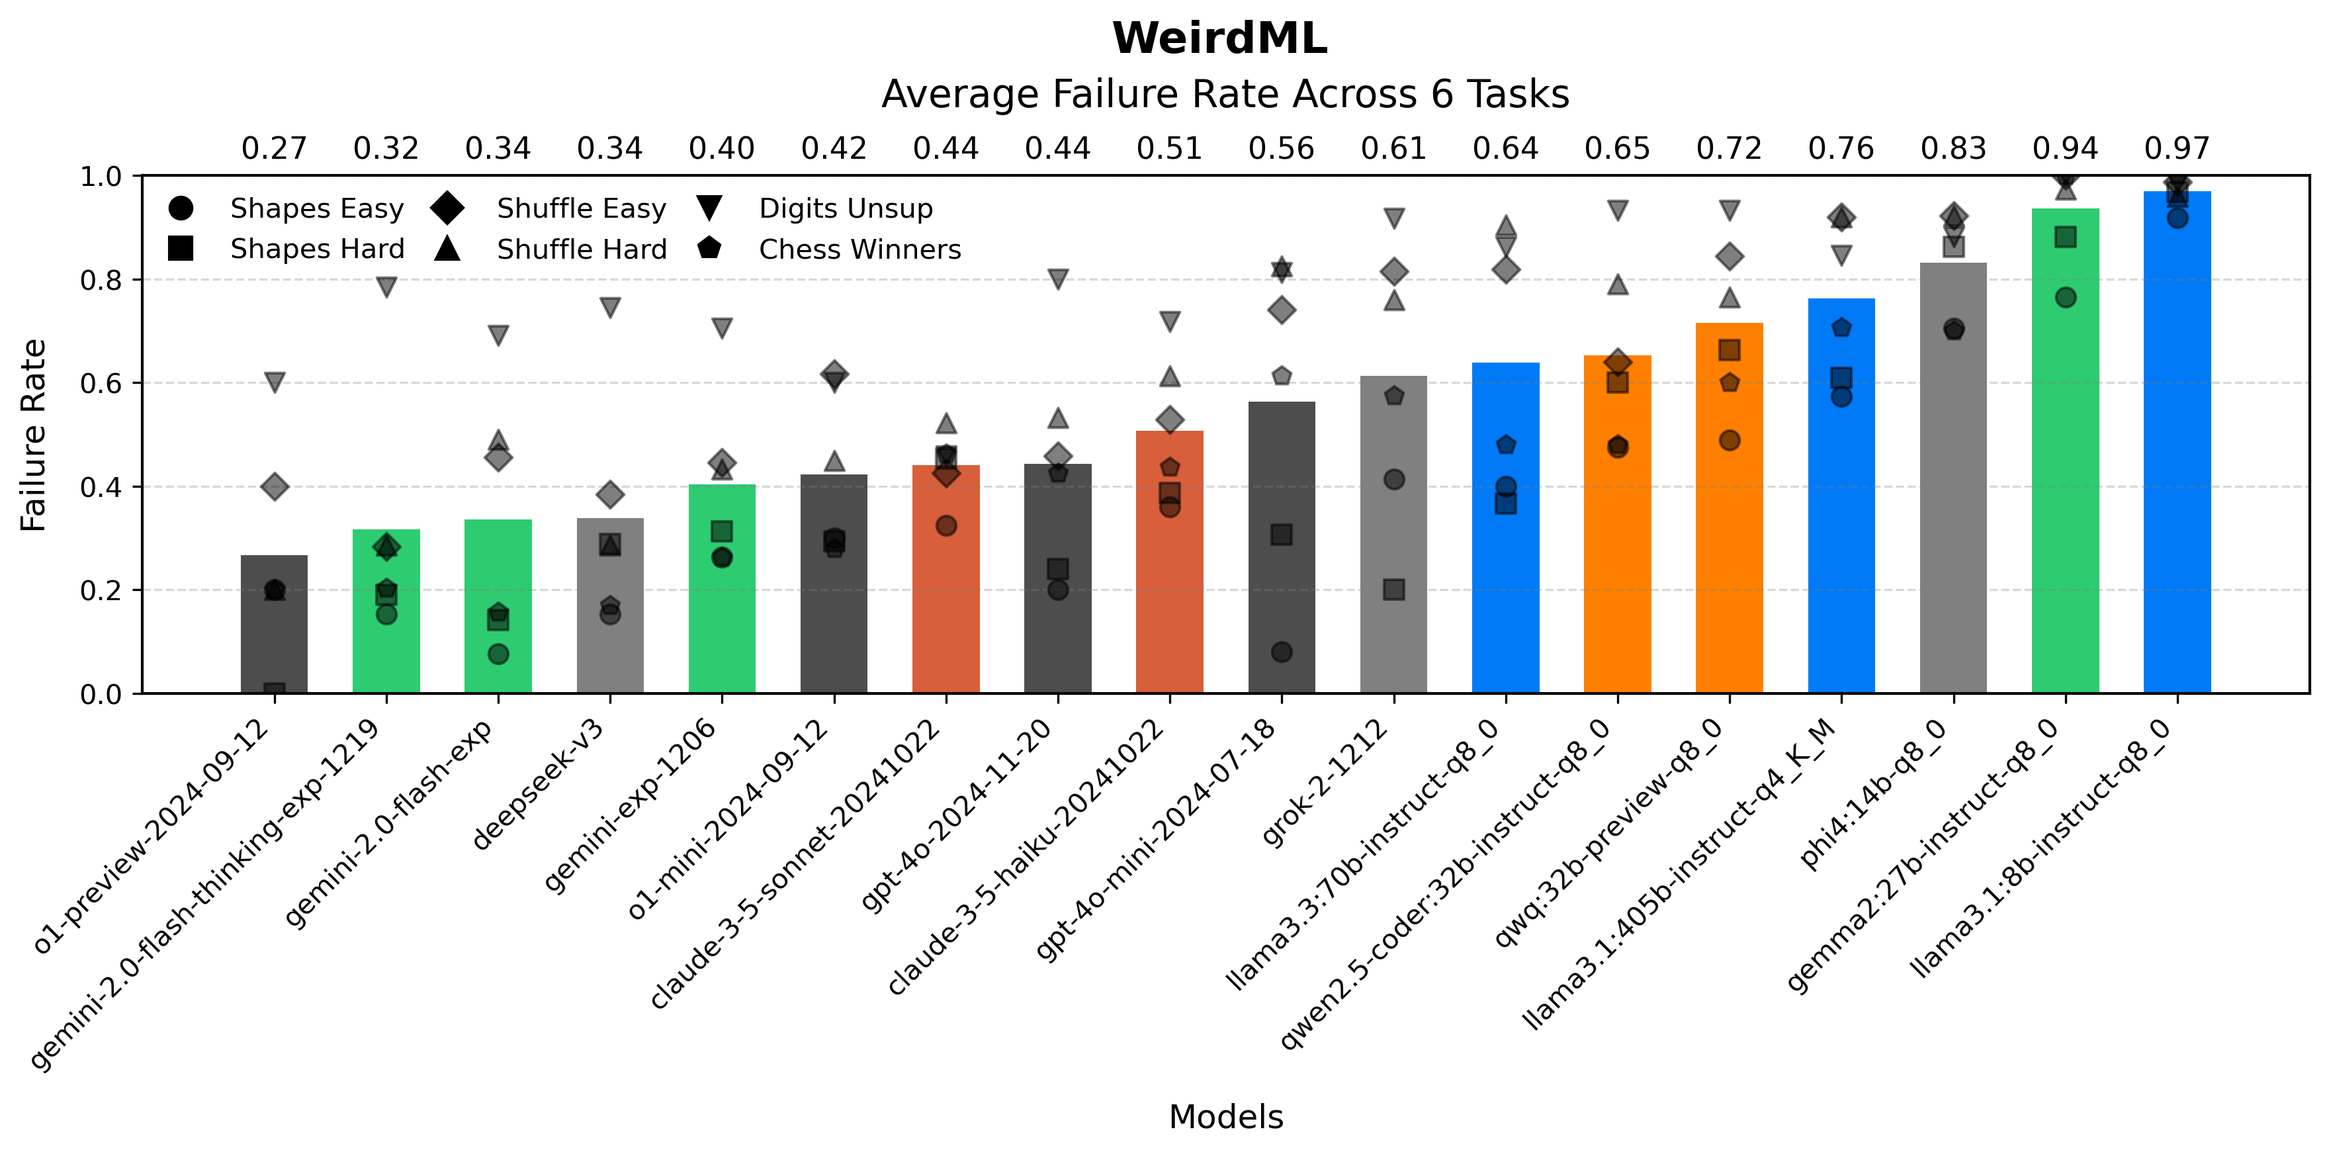
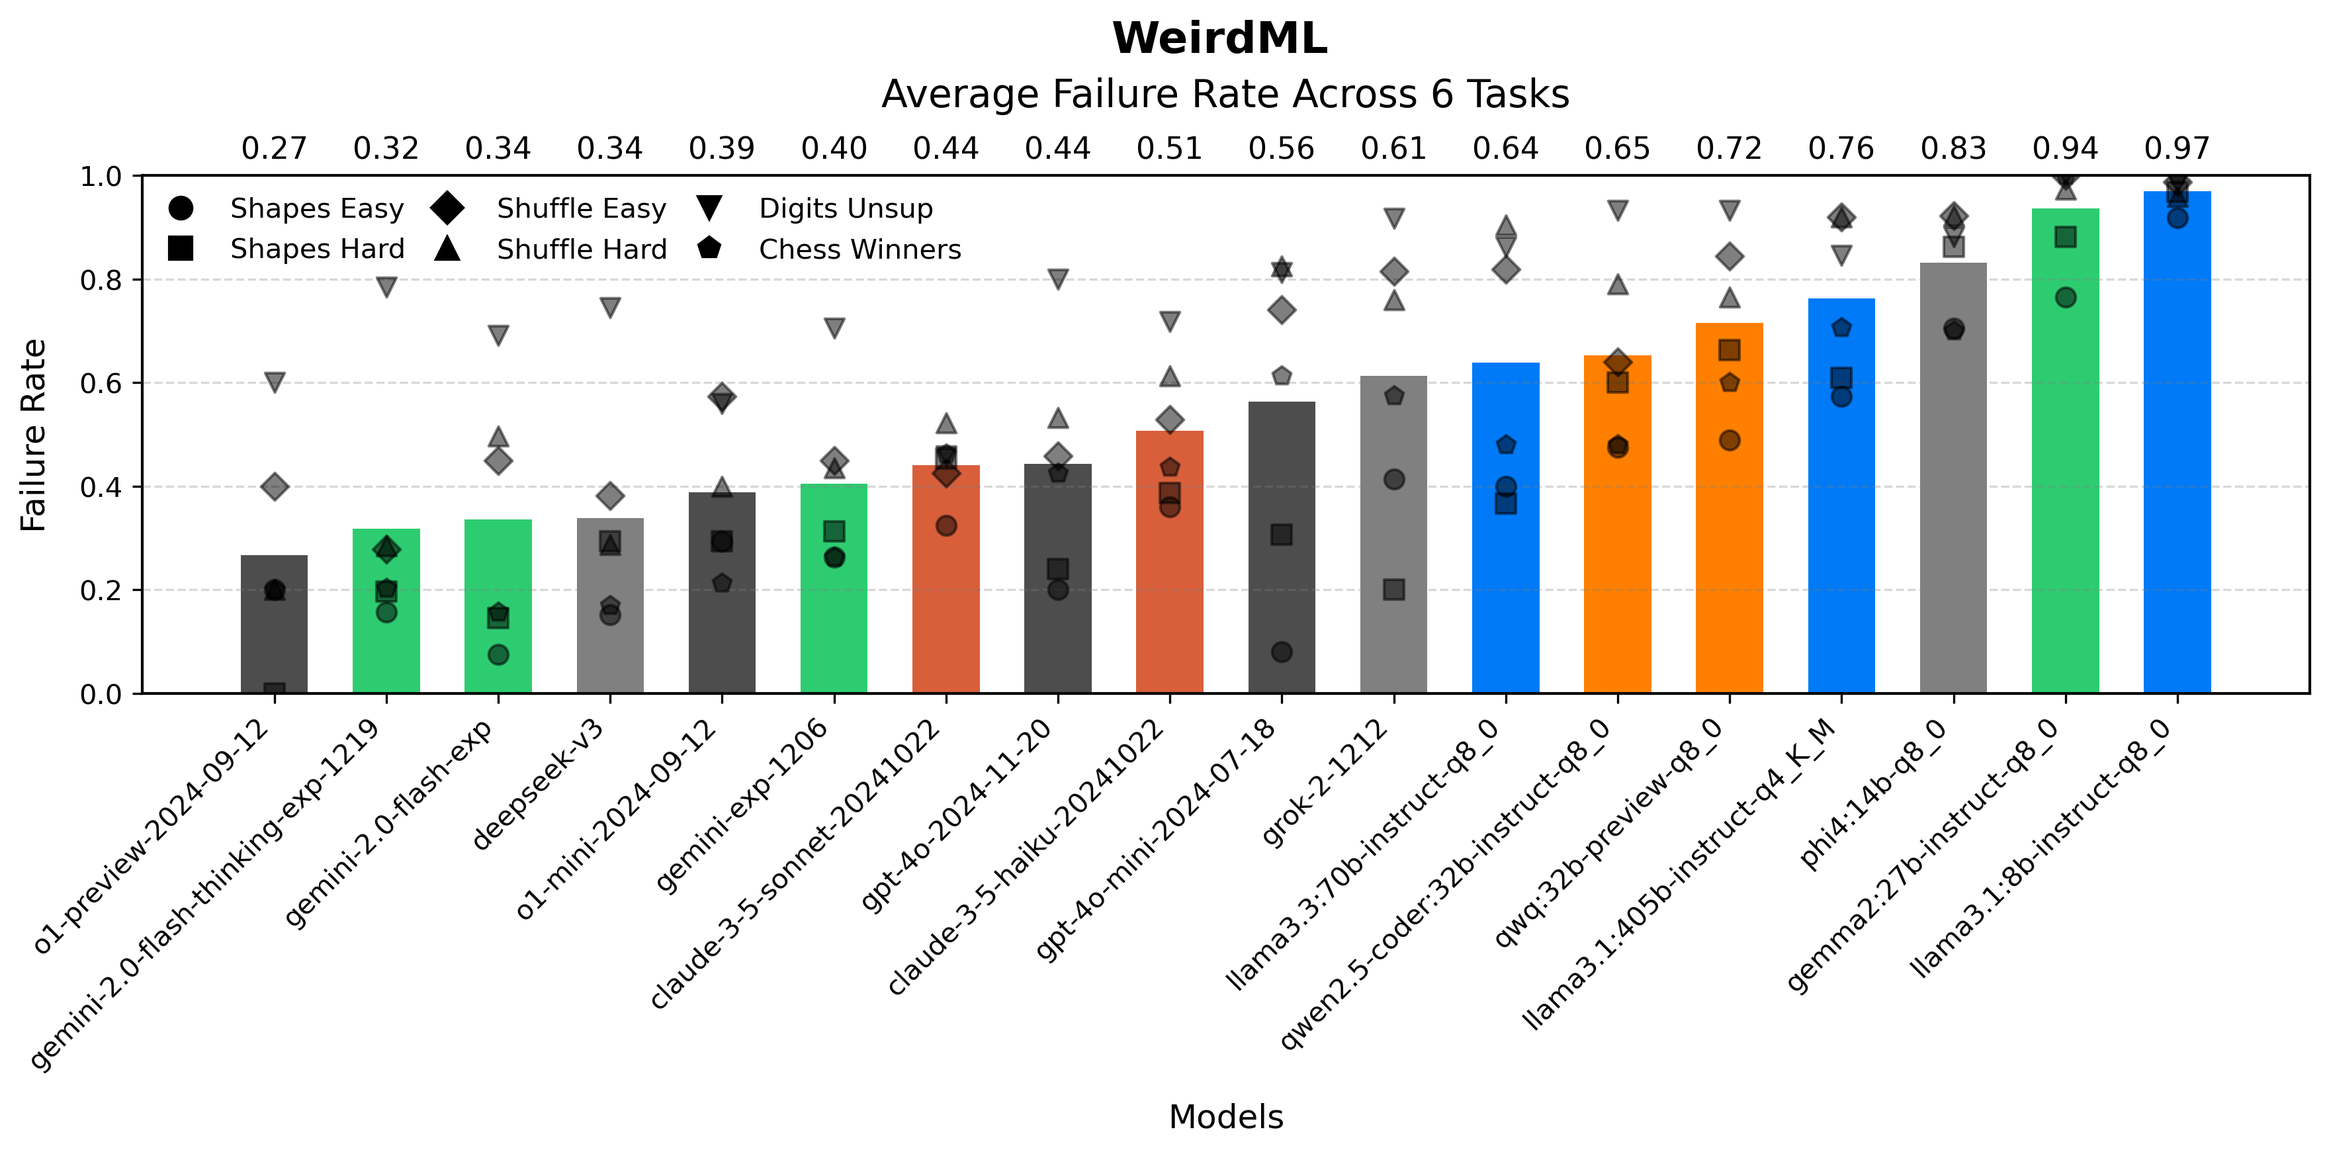
new versions of figures, and updated text

diff --git a/weirdml.md b/weirdml.md
@@ -8,14 +8,13 @@ title: WeirdML
 
 ## Introduction
 
-This benchmark evaluates Large Language Models (LLMs) on their ability to solve novel machine learning tasks, specifically it tests an LLM's capability to:
-1. Understand machine learning problem descriptions
-2. Generate working PyTorch code
-3. Debug and improve solutions based on feedback
-4. Handle resource constraints effectively
+How good are Large Language Models (LLMs) at doing machine learning on a novel datasets? The WeirdML benchmark presents the LLMs with weird and unusual machine learning tasks, designed to require careful thinking and actual understanding to solve, and tests an LLM's ability to:
+1. Actually understand the properties of the data and the problem
+2. Come up with a good architecture and training setup for the promblem and generate working PyTorch code that implements the solution
+3. Debug and improve the solution in 5 iterations based on terminal output and the accuracy on the test set
+4. Making good use of limited computational resources and time
 
-Each task is presented with a clear problem description and example code for loading data and saving predictions. The LLMs must then generate complete, working solutions that run within specified computational constraints.
-
+Each task comes with a task prompt describing the problem precisely and some example code for loading data and saving predictions. The different tasks pose different challenges: some require heavy data augmentation, others need careful feature engineering, or combining information from many different parts of the input.
 
 ## Results
 
@@ -74,7 +73,7 @@ Each task is presented with a clear problem description and example code for loa
         <table>
             <tr>
                 <th class="header-cell">Model</th>
-    <th class="header-cell">Shapes Easy</th><th class="header-cell">Shapes Hard</th><th class="header-cell">Shuffle Easy</th><th class="header-cell">Shuffle Hard</th><th class="header-cell">Digits Unsup</th><th class="header-cell">Chess Winners</th><th class="header-cell">Average</th></tr><tr style="background-color: #d75f3a25"><td class="model-cell">claude-3-5-sonnet-20241022</td><td>84.79%</td><td>29.12%</td><td>47.39%</td><td>11.46%</td><td>80.27%</td><td>52.62%</td><td><strong>50.94%</strong></td></tr><tr style="background-color: #4c4c4c25"><td class="model-cell">o1-preview-2024-09-12</td><td>98.70%</td><td>24.70%</td><td>50.02%</td><td>12.07%</td><td>34.40%</td><td>53.50%</td><td><strong>45.56%</strong></td></tr><tr style="background-color: #4c4c4c25"><td class="model-cell">o1-mini-2024-09-12</td><td>86.92%</td><td>23.80%</td><td>44.57%</td><td>11.42%</td><td>43.20%</td><td>57.14%</td><td><strong>44.51%</strong></td></tr><tr style="background-color: #d75f3a25"><td class="model-cell">claude-3-5-haiku-20241022</td><td>84.39%</td><td>23.85%</td><td>52.23%</td><td>10.07%</td><td>43.33%</td><td>48.66%</td><td><strong>43.75%</strong></td></tr><tr style="background-color: #2dcc7025"><td class="model-cell">gemini-2.0-flash-thinking-exp-1219</td><td>68.48%</td><td>21.63%</td><td>45.84%</td><td>11.20%</td><td>55.54%</td><td>53.37%</td><td><strong>42.68%</strong></td></tr><tr style="background-color: #2dcc7025"><td class="model-cell">gemini-2.0-flash-exp</td><td>49.46%</td><td>21.76%</td><td>38.65%</td><td>9.97%</td><td>60.78%</td><td>54.02%</td><td><strong>39.11%</strong></td></tr><tr style="background-color: #7f7f7f25"><td class="model-cell">deepseek-v3</td><td>72.74%</td><td>21.71%</td><td>32.78%</td><td>10.77%</td><td>33.40%</td><td>52.31%</td><td><strong>37.29%</strong></td></tr><tr style="background-color: #4c4c4c25"><td class="model-cell">gpt-4o-2024-11-20</td><td>68.95%</td><td>23.28%</td><td>36.75%</td><td>10.90%</td><td>29.77%</td><td>47.22%</td><td><strong>36.15%</strong></td></tr><tr style="background-color: #2dcc7025"><td class="model-cell">gemini-exp-1206</td><td>43.25%</td><td>21.82%</td><td>38.65%</td><td>11.86%</td><td>37.55%</td><td>49.95%</td><td><strong>33.85%</strong></td></tr><tr style="background-color: #7f7f7f25"><td class="model-cell">grok-2-1212</td><td>70.59%</td><td>21.40%</td><td>14.53%</td><td>5.40%</td><td>14.36%</td><td>39.45%</td><td><strong>27.62%</strong></td></tr><tr style="background-color: #ff7e0025"><td class="model-cell">qwq:32b-preview-q8_0</td><td>57.06%</td><td>18.44%</td><td>16.56%</td><td>6.46%</td><td>10.94%</td><td>45.32%</td><td><strong>25.80%</strong></td></tr><tr style="background-color: #ff7e0025"><td class="model-cell">qwen2.5-coder:32b-instruct-q8_0</td><td>55.75%</td><td>18.67%</td><td>16.16%</td><td>6.52%</td><td>10.53%</td><td>44.89%</td><td><strong>25.42%</strong></td></tr><tr style="background-color: #4c4c4c25"><td class="model-cell">gpt-4o-mini-2024-07-18</td><td>32.93%</td><td>19.95%</td><td>18.83%</td><td>4.87%</td><td>27.00%</td><td>38.28%</td><td><strong>23.64%</strong></td></tr><tr style="background-color: #0079f725"><td class="model-cell">llama3.3:70b-instruct-q8_0</td><td>40.86%</td><td>20.85%</td><td>9.86%</td><td>2.52%</td><td>22.35%</td><td>44.44%</td><td><strong>23.48%</strong></td></tr><tr style="background-color: #0079f725"><td class="model-cell">llama3.1:405b-instruct-q4_K_M</td><td>41.91%</td><td>19.41%</td><td>5.19%</td><td>2.27%</td><td>31.85%</td><td>37.40%</td><td><strong>23.00%</strong></td></tr><tr style="background-color: #2dcc7025"><td class="model-cell">gemini-1.5-flash-002</td><td>42.03%</td><td>21.31%</td><td>3.56%</td><td>11.27%</td><td>-</td><td>-</td><td><strong>19.54%</strong></td></tr><tr style="background-color: #7f7f7f25"><td class="model-cell">phi4:14b-q8_0</td><td>26.48%</td><td>5.73%</td><td>3.30%</td><td>2.44%</td><td>12.92%</td><td>28.08%</td><td><strong>13.16%</strong></td></tr><tr style="background-color: #0079f725"><td class="model-cell">llama3.1:70b-instruct-q8_0</td><td>25.61%</td><td>9.61%</td><td>0.69%</td><td>-</td><td>-</td><td>-</td><td><strong>11.97%</strong></td></tr><tr style="background-color: #2dcc7025"><td class="model-cell">gemma2:27b-instruct-q8_0</td><td>21.51%</td><td>8.76%</td><td>0.00%</td><td>1.49%</td><td>0.00%</td><td>0.00%</td><td><strong>5.30%</strong></td></tr><tr style="background-color: #0079f725"><td class="model-cell">llama3.1:8b-instruct-q8_0</td><td>6.77%</td><td>2.22%</td><td>0.66%</td><td>0.76%</td><td>1.35%</td><td>0.00%</td><td><strong>1.96%</strong></td></tr>
+    <th class="header-cell">Shapes Easy</th><th class="header-cell">Shapes Hard</th><th class="header-cell">Shuffle Easy</th><th class="header-cell">Shuffle Hard</th><th class="header-cell">Digits Unsup</th><th class="header-cell">Chess Winners</th><th class="header-cell">Average</th></tr><tr style="background-color: #d75f3a25"><td class="model-cell">claude-3-5-sonnet-20241022</td><td>84.79%</td><td>29.12%</td><td>47.39%</td><td>11.46%</td><td>80.27%</td><td>52.62%</td><td><strong>50.94%</strong></td></tr><tr style="background-color: #4c4c4c25"><td class="model-cell">o1-mini-2024-09-12</td><td>87.73%</td><td>26.49%</td><td>44.51%</td><td>11.44%</td><td>47.41%</td><td>55.89%</td><td><strong>45.58%</strong></td></tr><tr style="background-color: #4c4c4c25"><td class="model-cell">o1-preview-2024-09-12</td><td>98.70%</td><td>24.70%</td><td>50.02%</td><td>12.07%</td><td>34.40%</td><td>53.50%</td><td><strong>45.56%</strong></td></tr><tr style="background-color: #d75f3a25"><td class="model-cell">claude-3-5-haiku-20241022</td><td>84.39%</td><td>23.85%</td><td>52.23%</td><td>10.07%</td><td>43.33%</td><td>48.66%</td><td><strong>43.75%</strong></td></tr><tr style="background-color: #2dcc7025"><td class="model-cell">gemini-2.0-flash-thinking-exp-1219</td><td>68.65%</td><td>21.62%</td><td>46.05%</td><td>11.20%</td><td>55.54%</td><td>53.37%</td><td><strong>42.74%</strong></td></tr><tr style="background-color: #2dcc7025"><td class="model-cell">gemini-2.0-flash-exp</td><td>49.25%</td><td>21.76%</td><td>38.74%</td><td>9.83%</td><td>60.78%</td><td>54.02%</td><td><strong>39.06%</strong></td></tr><tr style="background-color: #7f7f7f25"><td class="model-cell">deepseek-v3</td><td>72.65%</td><td>21.70%</td><td>32.99%</td><td>10.78%</td><td>33.40%</td><td>52.31%</td><td><strong>37.31%</strong></td></tr><tr style="background-color: #4c4c4c25"><td class="model-cell">gpt-4o-2024-11-20</td><td>68.95%</td><td>23.28%</td><td>36.75%</td><td>10.90%</td><td>29.77%</td><td>47.22%</td><td><strong>36.15%</strong></td></tr><tr style="background-color: #2dcc7025"><td class="model-cell">gemini-exp-1206</td><td>43.25%</td><td>21.89%</td><td>40.62%</td><td>11.14%</td><td>37.55%</td><td>49.95%</td><td><strong>34.07%</strong></td></tr><tr style="background-color: #7f7f7f25"><td class="model-cell">grok-2-1212</td><td>70.59%</td><td>21.40%</td><td>14.53%</td><td>5.40%</td><td>14.36%</td><td>39.45%</td><td><strong>27.62%</strong></td></tr><tr style="background-color: #ff7e0025"><td class="model-cell">qwq:32b-preview-q8_0</td><td>57.06%</td><td>18.44%</td><td>16.56%</td><td>6.46%</td><td>10.94%</td><td>45.32%</td><td><strong>25.80%</strong></td></tr><tr style="background-color: #ff7e0025"><td class="model-cell">qwen2.5-coder:32b-instruct-q8_0</td><td>55.75%</td><td>18.67%</td><td>16.16%</td><td>6.52%</td><td>10.53%</td><td>44.89%</td><td><strong>25.42%</strong></td></tr><tr style="background-color: #4c4c4c25"><td class="model-cell">gpt-4o-mini-2024-07-18</td><td>32.93%</td><td>19.95%</td><td>18.83%</td><td>4.87%</td><td>27.00%</td><td>38.28%</td><td><strong>23.64%</strong></td></tr><tr style="background-color: #0079f725"><td class="model-cell">llama3.3:70b-instruct-q8_0</td><td>40.86%</td><td>20.85%</td><td>9.86%</td><td>2.52%</td><td>22.35%</td><td>44.44%</td><td><strong>23.48%</strong></td></tr><tr style="background-color: #0079f725"><td class="model-cell">llama3.1:405b-instruct-q4_K_M</td><td>41.91%</td><td>19.41%</td><td>5.19%</td><td>2.27%</td><td>31.85%</td><td>37.40%</td><td><strong>23.00%</strong></td></tr><tr style="background-color: #2dcc7025"><td class="model-cell">gemini-1.5-flash-002</td><td>42.03%</td><td>21.31%</td><td>3.56%</td><td>11.27%</td><td>-</td><td>-</td><td><strong>19.54%</strong></td></tr><tr style="background-color: #7f7f7f25"><td class="model-cell">phi4:14b-q8_0</td><td>26.48%</td><td>5.73%</td><td>3.30%</td><td>2.44%</td><td>12.92%</td><td>28.08%</td><td><strong>13.16%</strong></td></tr><tr style="background-color: #0079f725"><td class="model-cell">llama3.1:70b-instruct-q8_0</td><td>25.61%</td><td>9.61%</td><td>0.69%</td><td>-</td><td>-</td><td>-</td><td><strong>11.97%</strong></td></tr><tr style="background-color: #2dcc7025"><td class="model-cell">gemma2:27b-instruct-q8_0</td><td>21.51%</td><td>8.76%</td><td>0.00%</td><td>1.49%</td><td>0.00%</td><td>0.00%</td><td><strong>5.30%</strong></td></tr><tr style="background-color: #0079f725"><td class="model-cell">llama3.1:8b-instruct-q8_0</td><td>6.77%</td><td>2.22%</td><td>0.66%</td><td>0.76%</td><td>1.35%</td><td>0.00%</td><td><strong>1.96%</strong></td></tr>
         </table>
     </div>
     <p><em>Table caption.</em></p>
@@ -85,8 +84,8 @@ Each task is presented with a clear problem description and example code for loa
 The evaluation uses an automated pipeline that:
 1. Presents the task to the LLM
 2. Executes the generated code in an isolated environment
-3. Evaluates the results against ground truth
-4. Provides feedback to the LLM for improvement
+3. Evaluates the results against the test set
+4. Provides feedback (terminal output from the code execution and test accuracy) to the LLM for improvement
 
 ### System Architecture
 <div style="text-align: center">
@@ -95,7 +94,7 @@ The evaluation uses an automated pipeline that:
 </div>
 The system executes code in a Docker container with strict resource limits (TITAN V GPU with 12GB memory, 600-second timeout). This ensures fair comparison between models and tests their ability to work within realistic constraints. 
 
-Each 'run' is 5 iterations, i.e. the LLM gets 5 submissions, and 4 rounds of feedback, allowing them to learn from feedback and improve their solutions ([full system prompt](prompts/system_prompt.md)). The accuracy of each run is the maximum accuracy achieved over all the submissions in that run.
+Each 'run' is 5 iterations, i.e. the LLM gets 5 submissions, and 4 rounds of feedback, allowing them to learn from feedback and improve their solutions ([full system prompt](prompts/system_prompt.md)). The accuracy of each run is the maximum test accuracy achieved over all the 5 submissions in that run.
 
 For each task we give each model (at least) 15 runs, in order to take into account the large variance in performance that we see for the same model on the same task. The final score for each model on that task is the mean accuracy over all the runs.
 
@@ -111,7 +110,7 @@ The LLMs are evaluated on several different machine learning tasks. These tasks 
 </div>
 
 
-A shape classification task ([task prompt](prompts/task_prompt_shapes_easy.md)) where models must identify one of five shapes (circle, square, triangle, pentagon, star) from a set of 512 2D coordinates. Only some of the points make up the shape, the other points are noise. The shapes are always centered and have fixed orientation and size, making this the simpler variant of the shape recognition tasks.
+A shape classification task ([task prompt](prompts/task_prompt_shapes_easy.md)) where models must identify one of five shapes (circle, square, triangle, pentagon, star) from a set of 512 2D coordinates. Only some of the points make up the shape, the other points are noise. The shapes are always centered and have fixed orientation and size, making this the simpler variant of the shape recognition tasks. The training set has 1000 samples. 
 
 Here the model needs to come up with a way to encode the data that is invariant to permutations of the points. The distribution of points along the shape also varies greatly, so the model needs to combine information from many points to make a good prediction. 
 
@@ -142,7 +141,7 @@ Here the model needs to come up with a way to encode the data that is (at least 
 </div>
 
 
-Models must arrange 9 shuffled grayscale image patches (9x9 pixels each) to reconstruct the original 27x27 image. All patches are guaranteed to be part of a single, coherent image ([task prompt](prompts/task_prompt_shuffle_easy.md)).
+Models must arrange 9 shuffled grayscale image patches (9x9 pixels each) to reconstruct the original 27x27 image. All patches are guaranteed to be part of a single, coherent image ([task prompt](prompts/task_prompt_shuffle_easy.md)). The training set has 1000 images. 
 
 The original images here are from the fashion MNIST dataset, which is a greyscale dataset of 28x28 images of fashion items, with the items of clothing in the middle against a black background. This means that the position of an individual patch can often be inferred from the patch itself, since for example, a patch in the left of the image will tend to contain the left side of the item of clothing etc. This allows you to get a decent score even if you are not combining the information from the different patches in a good way.
 
@@ -170,7 +169,7 @@ A more challenging version where patches are in RGB and taken from a random 27x2
     <p><em>Example data from the Chess Game Outcome Prediction task. Models must predict the outcome of chess games (white wins, black wins, or draw) from game move sequences given as strings (here truncated).</em></p>
 </div>
 
-Predict the outcome of chess games (white wins, black wins, or draw) from game move sequences ([task prompt](prompts/task_prompt_chess_winners.md)). The data consists of games played by beginners (rated below 1300), with moves in standard algebraic notation. Note that with 50% probability, the last move (for a single player) is removed, to prevent models using who moves last as a signal for the outcome.
+Predict the outcome of chess games (white wins, black wins, or draw) from game move sequences ([task prompt](prompts/task_prompt_chess_winners.md)). The data consists of games played by beginners (rated below 1300), with moves in standard algebraic notation. Note that with 50% probability, the last move (for a single player) is removed, to prevent models using who moves last as a signal for the outcome. The training set has 1000 games.
 
 Here the models need to split the string into moves, then convert the string for each move into some kind of hand-crafted or learned features, and finally use these features to predict the outcome of the game, while dealing with the vaiable length of the chess games. Once some good features are found, there should be plenty of patterns that can be used to do significantly better than chance on predicting the outcome of the games.
 
@@ -185,9 +184,9 @@ Here the models need to split the string into moves, then convert the string for
     <p><em>Example data from the Unsupervised Digit Recognition task. Models must classify digits with only 26 labeled examples and a large set of unlabeled data.</em></p>
 </div>
 
-A semi-supervised learning task where models must classify digits with only 26 labeled examples and a large set of unlabeled data ([task prompt](prompts/task_prompt_digits_unsup.md)). The challenge is complicated by uneven class distribution in the unlabeled set. 
+A semi-supervised learning task where models must classify digits with only 26 labeled examples and a large set of unlabeled data ([task prompt](prompts/task_prompt_digits_unsup.md)). The challenge is complicated by uneven class distribution in the unlabeled set. The unlabeled training set is almost 16000 samples. 
 
-This is perhaps the most straightforward task, as a fairly standard semi-supervised learning recipe can be applied, but it is at least a dataset that the models have not seen before, and making semi-supervised learning work is not trivial.
+This is perhaps the most straightforward task, as a fairly standard semi-supervised machine learning recipe can be applied, but it is at least a dataset that the models have not seen before, and making semi-supervised learning work at all is not trivial.
 
 <div style="text-align: center">
     <img src="../images/digits_unsup_max_accuracy_comparison.png" width="800"/>
